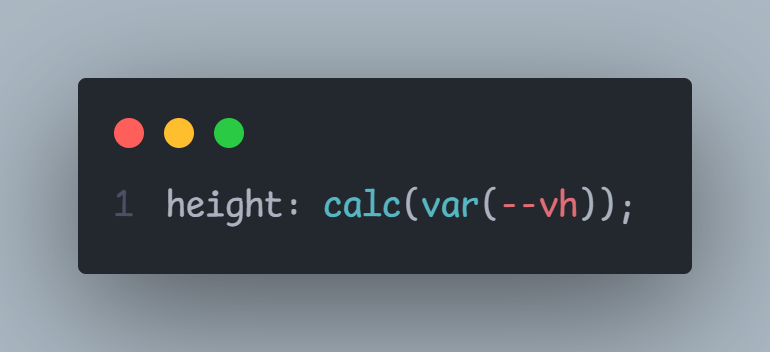
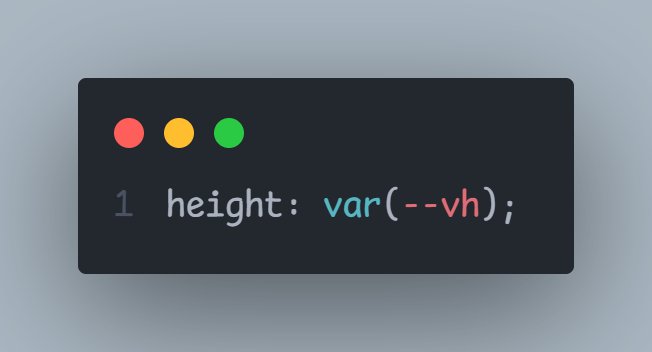
hello kitty

diff --git a/src/App.vue b/src/App.vue
@@ -2,7 +2,7 @@
 import { onMounted } from "vue";
 
 const setDocVh = () => {
-  const vh = window.innerHeight * 0.01;
+  const vh = window.innerHeight;
   document.documentElement.style.setProperty("--vh", `${vh}px`);
 };
 
@@ -29,7 +29,7 @@ body {
 
 #app {
   width: 100vw;
-  height: calc(var(--vh, 1vh) * 100);
+  height: var(--vh);
   position: relative;
   overflow: hidden;
 }

diff --git a/src/views/LectureNotes3.vue b/src/views/LectureNotes3.vue
@@ -202,8 +202,8 @@ const onMouseMove = (e) => {
 }
 
 .magnifier {
-  width: 480px;
-  height: 480px;
+  width: 20%;
+  aspect-ratio: 1;
   position: absolute;
   bottom: 16px;
   right: 16px;
@@ -216,7 +216,7 @@ const onMouseMove = (e) => {
 
 .magnifier-text {
   color: white;
-  font-size: 128px;
+  font-size: 10vmin;
   font-family: "Acme", sans-serif;
   margin: 0;
 }

diff --git a/src/views/LectureNotes6.vue b/src/views/LectureNotes6.vue
@@ -62,7 +62,7 @@ const onVhClick = () => {
 }
 
 .code {
-  width: 75%;
+  width: 60%;
   margin-top: 2%;
 }
 </style>
